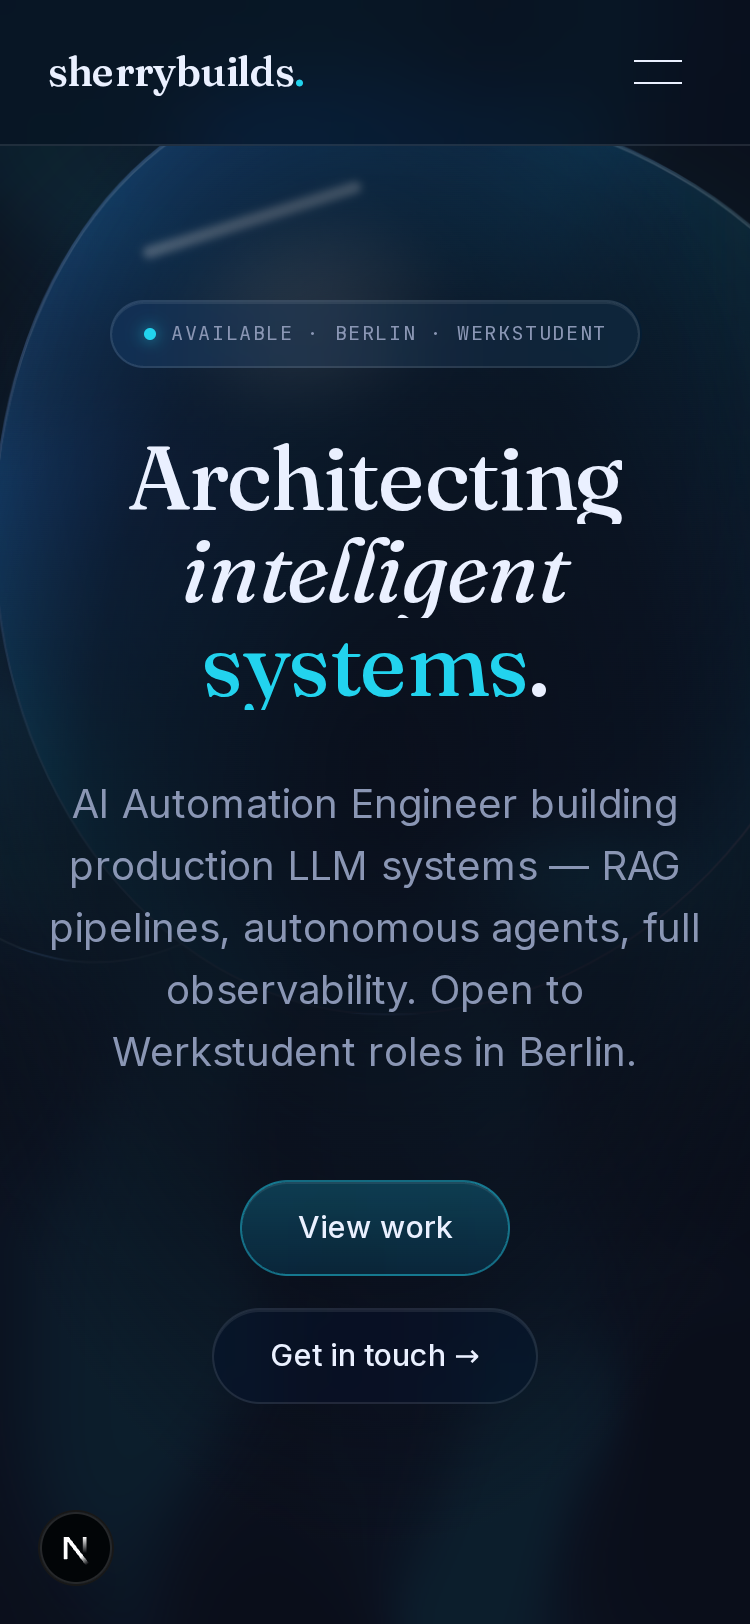
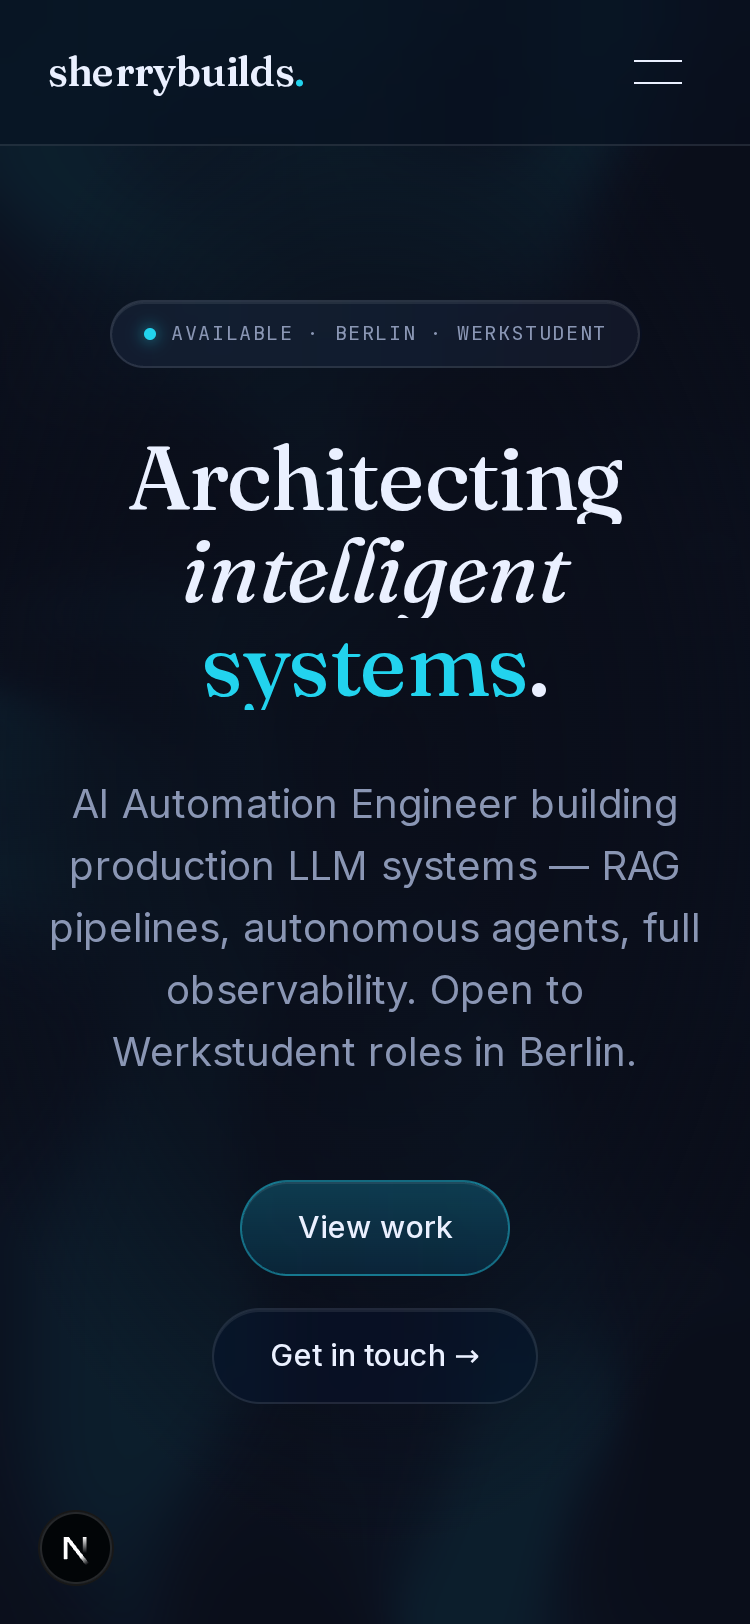
refactor(portfolio-dark): remove hero glass object — fluid + type IS the hero
- GlassShape removed from the layout (component file kept in repo,
  #hero-glass Spline swap point preserved for later if wanted)
- Centered chip / headline / sub / CTAs float directly over the
  ferrofluid; readability scrim kept — all text verified crisp at
  1440 + 375, no deepening needed
- No replacement object added

Verified: captures updated, 0 console errors, 0 overflow, tsc +
eslint clean.

Changed region(s): [[0.0, 0.0924, 1.0, 0.4618]]

diff --git a/src/components/portfolio-dark/DarkHero.tsx b/src/components/portfolio-dark/DarkHero.tsx
@@ -3,7 +3,6 @@
 import { useRef } from "react";
 import { gsap, useGSAP, EASE, STAGGER } from "@/lib/gsap";
 import MorphWord from "@/components/portfolio/MorphWord";
-import GlassShape from "./GlassShape";
 
 export default function DarkHero() {
   const scope = useRef<HTMLElement>(null);
@@ -25,12 +24,12 @@ export default function DarkHero() {
             { autoAlpha: 1, y: 0, duration: 0.6, stagger: STAGGER },
             "-=0.55"
           )
-          .fromTo(".hero-object", { autoAlpha: 0 }, { autoAlpha: 1, duration: 1.2 }, 0.35);
+;
       });
 
       mm.add("(prefers-reduced-motion: reduce)", () => {
         gsap.set(
-          [".hero-line-inner", ".hero-chip", ".hero-sub", ".hero-ctas", ".hero-object"],
+          [".hero-line-inner", ".hero-chip", ".hero-sub", ".hero-ctas"],
           { autoAlpha: 1, y: 0, yPercent: 0 }
         );
       });
@@ -44,15 +43,7 @@ export default function DarkHero() {
       ref={scope}
       className="relative flex min-h-[100svh] items-center overflow-hidden"
     >
-      {/* 3D shape slot — centered BEHIND the text, pushed upward so its
-          bright mass halos the top of the headline */}
-      <div
-        className="hero-object pointer-events-none absolute left-1/2 -top-[4%] aspect-square w-[150vw] max-w-none -translate-x-1/2 opacity-70 md:-top-[18%] md:w-[min(74vw,820px)] md:opacity-100"
-        data-reveal=""
-      >
-        <GlassShape />
-      </div>
-
+      {/* No hero object — the ferrofluid background + centered type IS the hero */}
       <div className="relative z-10 mx-auto w-full max-w-[80rem] px-6 lg:px-10">
         <div className="relative mx-auto flex max-w-[52rem] flex-col items-center text-center">
           {/* readability scrim — soft radial dark pool behind the text block */}
